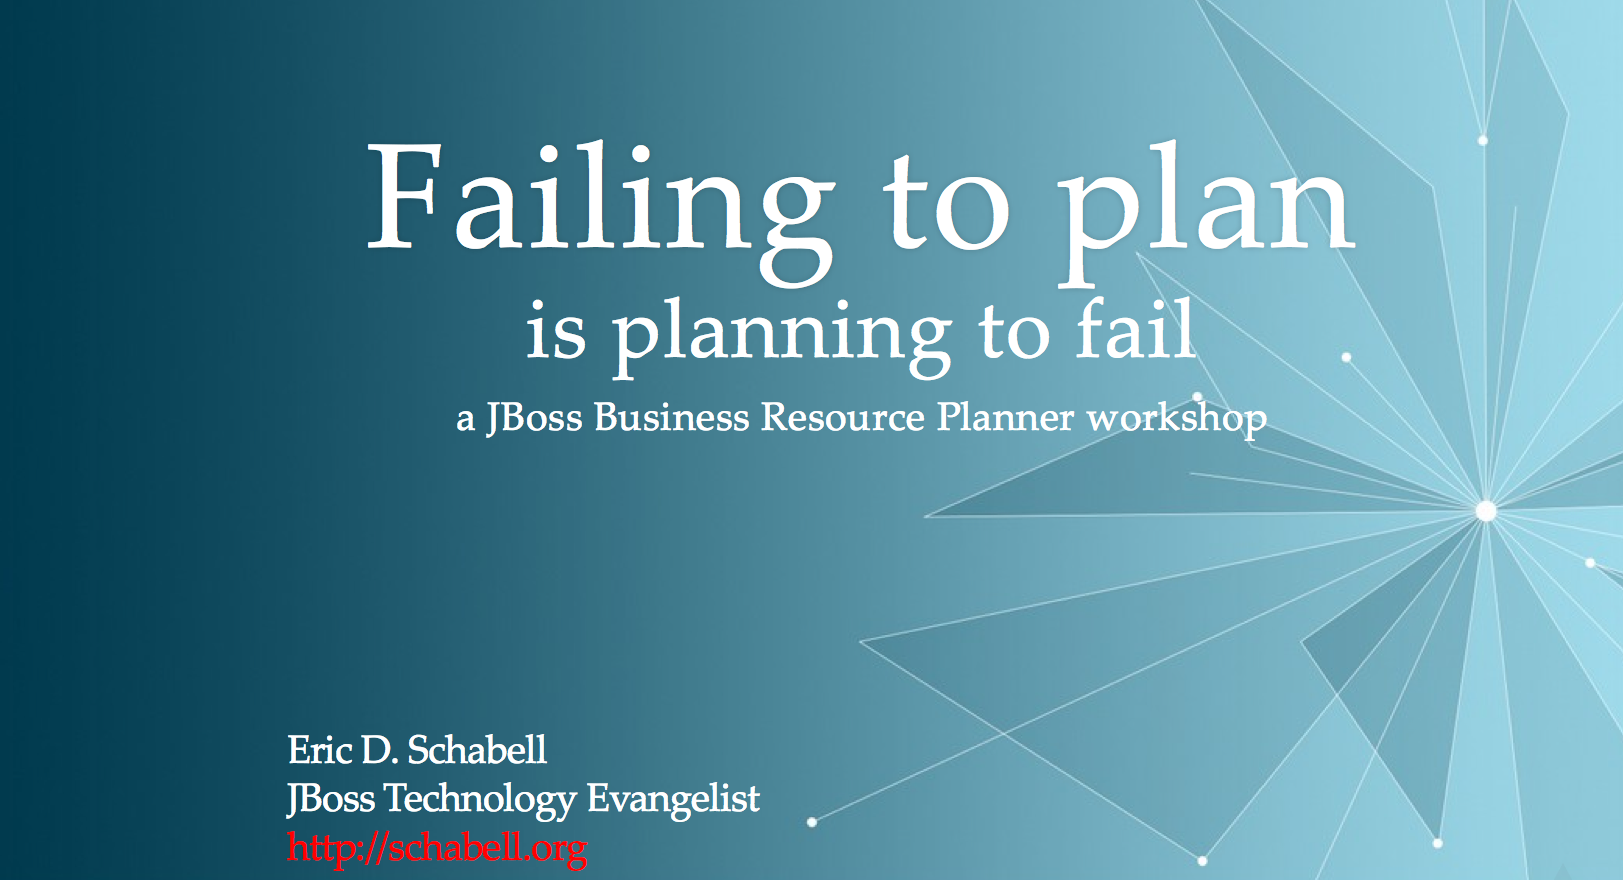
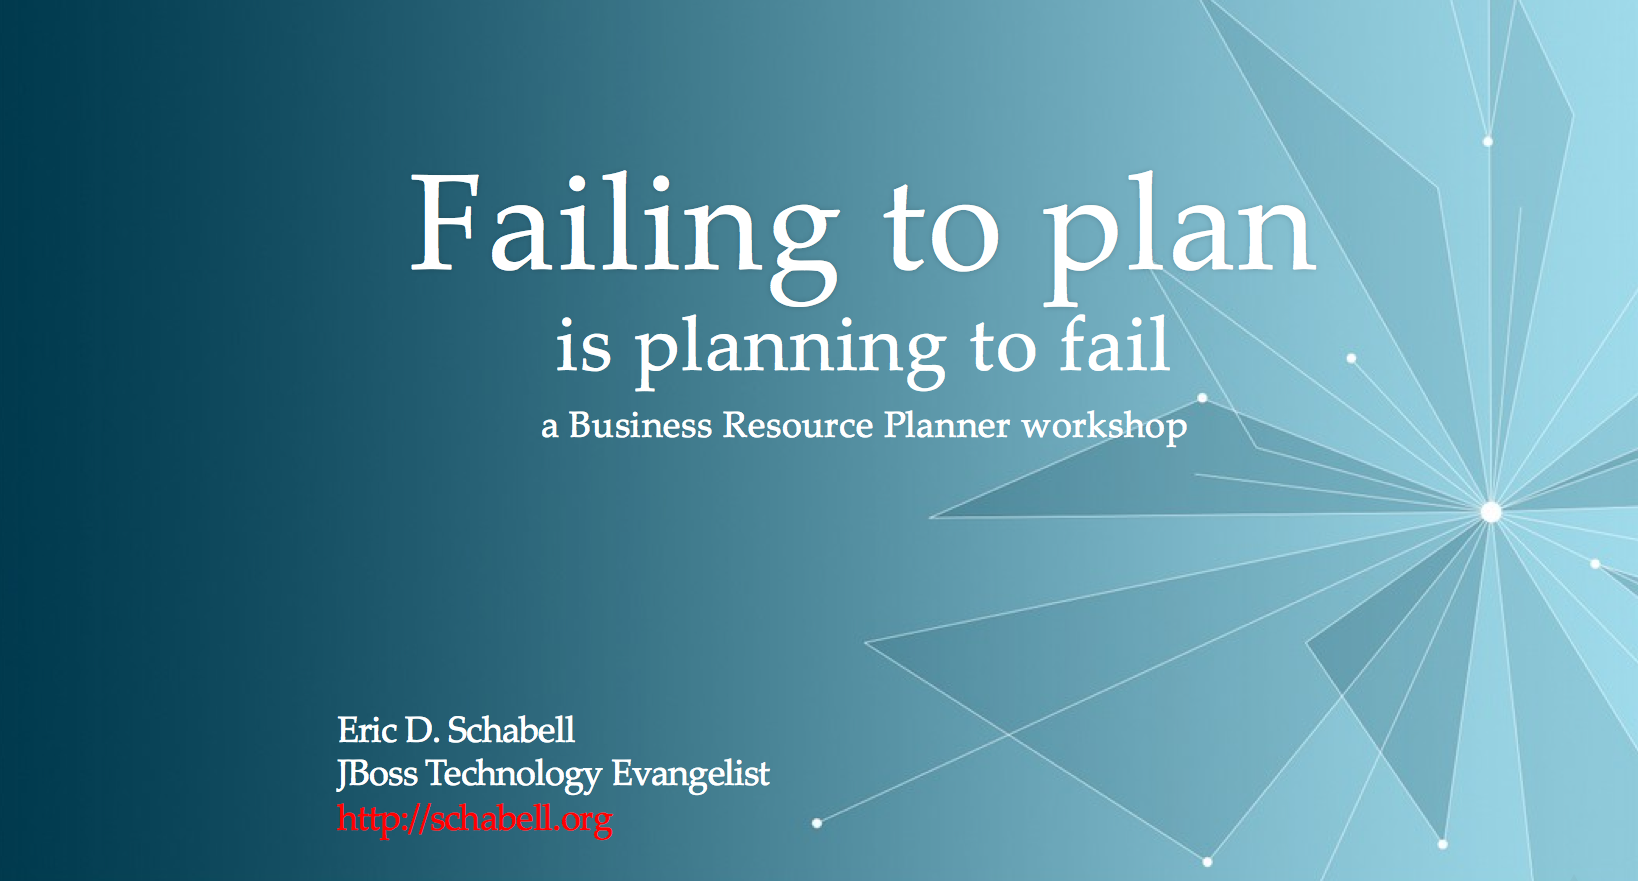
Fixed references.

diff --git a/introduction.html b/introduction.html
@@ -1,0 +1,254 @@
+<!doctype html>
+<html lang="en">
+
+<head>
+    <meta charset="utf-8">
+
+    <title>Red Hat JBoss BRMS & BPM Suite Introduction</title>
+
+    <meta name="description" content="JBoss BRMS & BPM Suite introduction.">
+    <meta name="author" content="Eric D. Schabell">
+
+    <meta name="apple-mobile-web-app-capable" content="yes" />
+    <meta name="apple-mobile-web-app-status-bar-style" content="black-translucent" />
+
+    <meta name="viewport" content="width=device-width, initial-scale=1.0, maximum-scale=1.0, user-scalable=no">
+
+    <link rel="stylesheet" href="css/reveal.min.css">
+    <link rel="stylesheet" href="css/theme/serif.css" id="theme">
+
+    <!-- For syntax highlighting -->
+    <link rel="stylesheet" href="lib/css/zenburn.css">
+
+    <!-- If the query includes 'print-pdf', include the PDF print sheet -->
+    <script>
+        if( window.location.search.match( /print-pdf/gi ) ) {
+            var link = document.createElement( 'link' );
+            link.rel = 'stylesheet';
+            link.type = 'text/css';
+            link.href = 'css/print/pdf.css';
+            document.getElementsByTagName( 'head' )[0].appendChild( link );
+        }
+    </script>
+
+    <!--[if lt IE 9]>
+    <script src="lib/js/html5shiv.js"></script>
+    <![endif]-->
+</head>
+
+<body>
+
+<div class="reveal">
+
+    <!-- Any section element inside of this container is displayed as a slide -->
+    <div class="slides">
+        <section>
+            <div style="width: 1056px; height: 300px; color: white">
+                <h2>Red Hat</h2>
+                <h2>JBoss BRMS & BPM Suite</h2>
+                <h3>Introduction</h3>
+            </div>
+            <div style="width: 600px; height: 600px; text-align: left">
+                Eric D. Schabell<br/>
+                JBoss Technology Evangelist<br/>
+                <a href="http://twitter.com/ericschabell" style="color: red" target="_blank">@ericschabell</a><br/>
+                <a href="http://schabell.org" style="color: red">http://schabell.org</a>
+            </div>
+            <aside class="notes">
+                Welcome to the JBoss BRMS & BPM Suite introduction. We call this the primer series, where we will
+                take you through the basics of Business Rules Management Systems, Complex Events and Business
+                Process Management.
+            </aside>
+        </section>
+
+        <section>
+            <img width="100%" height="100%" src="https://raw.githubusercontent.com/eschabell/erics-images/master/jteimages/image2.png">
+        </section>
+
+        <section data-background-color="white">
+            <img width="100%" height="100%" src="https://raw.githubusercontent.com/eschabell/erics-images/master/jteimages/image4.png">
+        </section>
+
+        <section data-background-color="white">
+            <img width="100%" height="100%" src="https://raw.githubusercontent.com/eschabell/erics-images/master/jteimages/image5.png">
+        </section>
+
+        <section data-background-color="white">
+            <img width="100%" height="100%" src="https://raw.githubusercontent.com/eschabell/erics-images/master/jteimages/image6.png">
+        </section>
+
+        <section data-background-color="white">
+            <img width="100%" height="100%" src="https://raw.githubusercontent.com/eschabell/erics-images/master/jteimages/image7.png">
+        </section>
+
+        <section data-background-color="white">
+            <img width="100%" height="100%" src="https://raw.githubusercontent.com/eschabell/erics-images/master/jteimages/image8.png">
+        </section>
+
+        <section data-background-color="white">
+            <img width="100%" height="100%" src="https://raw.githubusercontent.com/eschabell/erics-images/master/jteimages/image9.png">
+        </section>
+
+        <section data-background-color="white">
+            <img width="100%" height="100%" src="https://raw.githubusercontent.com/eschabell/erics-images/master/jteimages/image10.png">
+        </section>
+
+        <section>
+            <img width="100%" height="100%" src="https://raw.githubusercontent.com/eschabell/erics-images/master/jteimages/image11.png">
+        </section>
+
+        <section data-background-color="white">
+            <img width="100%" height="100%" src="https://raw.githubusercontent.com/eschabell/erics-images/master/jteimages/image12.png">
+        </section>
+
+        <section data-background-color="white">
+            <img width="100%" height="100%" src="https://raw.githubusercontent.com/eschabell/erics-images/master/jteimages/image13.png">
+        </section>
+
+        <section>
+            <img width="100%" height="100%" src="https://raw.githubusercontent.com/eschabell/erics-images/master/jteimages/image14.png">
+        </section>
+
+        <section data-background-color="white">
+            <img width="100%" height="100%" src="https://raw.githubusercontent.com/eschabell/erics-images/master/jteimages/image15.png">
+        </section>
+
+        <section data-background-color="white">
+            <img width="100%" height="100%" src="https://raw.githubusercontent.com/eschabell/erics-images/master/jteimages/image16.png">
+        </section>
+
+        <section data-background-color="white">
+            <img width="100%" height="100%" src="https://raw.githubusercontent.com/eschabell/erics-images/master/jteimages/image17.png">
+        </section>
+
+        <section data-background-color="white">
+            <img width="100%" height="100%" src="https://raw.githubusercontent.com/eschabell/erics-images/master/jteimages/image18.png">
+        </section>
+
+        <section data-background-color="white">
+            <img width="100%" height="100%" src="https://raw.githubusercontent.com/eschabell/erics-images/master/jteimages/image19.png">
+        </section>
+
+        <section data-background-color="white">
+            <img width="100%" height="100%" src="https://raw.githubusercontent.com/eschabell/erics-images/master/jteimages/image20.png">
+        </section>
+
+        <section data-background-color="white">
+            <img width="100%" height="100%" src="https://raw.githubusercontent.com/eschabell/erics-images/master/jteimages/image21.png">
+        </section>
+
+        <section data-background-color="white">
+            <img width="100%" height="100%" src="https://raw.githubusercontent.com/eschabell/erics-images/master/jteimages/image22.png">
+        </section>
+
+        <section data-background-color="white">
+            <img width="100%" height="100%" src="https://raw.githubusercontent.com/eschabell/erics-images/master/jteimages/image23.png">
+        </section>
+
+        <section data-background-color="white">
+            <img width="100%" height="100%" src="https://raw.githubusercontent.com/eschabell/erics-images/master/jteimages/image24.png">
+        </section>
+
+        <section data-background-color="white">
+            <img width="100%" height="100%" src="https://raw.githubusercontent.com/eschabell/erics-images/master/jteimages/image25.png">
+        </section>
+
+        <section data-background-color="white">
+            <img width="100%" height="100%" src="https://raw.githubusercontent.com/eschabell/erics-images/master/jteimages/image26.png">
+        </section>
+
+        <section data-background-color="white">
+            <img width="100%" height="100%" src="https://raw.githubusercontent.com/eschabell/erics-images/master/jteimages/image27.png">
+        </section>
+
+        <section data-background-color="white">
+            <img width="100%" height="100%" src="https://raw.githubusercontent.com/eschabell/erics-images/master/jteimages/image28.png">
+        </section>
+
+        <section>
+            <img width="100%" height="100%" src="https://raw.githubusercontent.com/eschabell/erics-images/master/jteimages/image29.png">
+        </section>
+
+        <section data-background-color="white">
+            <img width="100%" height="100%" src="https://raw.githubusercontent.com/eschabell/erics-images/master/jteimages/image30.png">
+        </section>
+
+        <section data-background-color="white">
+            <img src="https://raw.githubusercontent.com/eschabell/erics-images/master/brms_bpms_workshop/brms-arch.png">
+        </section>
+
+        <section data-background-color="white">
+            <img width="100%" height="100%" src="https://raw.githubusercontent.com/eschabell/erics-images/master/jteimages/image34.png">
+        </section>
+
+        <section data-background-color="white">
+            <img width="100%" height="100%" src="https://raw.githubusercontent.com/eschabell/erics-images/master/jteimages/image35.png">
+        </section>
+
+        <section data-background-color="white">
+            <img src="https://raw.githubusercontent.com/eschabell/erics-images/master/brms_bpms_workshop/bpmsuite-arch.png">
+        </section>
+
+        <section data-background-color="white">
+            <img width="100%" height="100%" src="https://raw.githubusercontent.com/eschabell/erics-images/master/jteimages/image37.png">
+        </section>
+
+        <section data-background-color="white">
+            <img width="100%" height="100%" src="https://raw.githubusercontent.com/eschabell/erics-images/master/jteimages/image38.png">
+        </section>
+
+        <section>
+            <img width="100%" height="100%" src="https://raw.githubusercontent.com/eschabell/erics-images/master/jteimages/image42.png">
+        </section>
+
+        <section>
+            <div style="width: 1056px; height: 100px;">
+                <h2>Let's get started...</h2>
+            </div>
+            <div style="width: 1056px; height: 200px;">
+                <h3>Online Workshop</h3>
+                This workshop will get you started with the <br />
+                Business Resource Planner component.
+            </div>
+            <div style="width: 1056px; height: 600px;">
+                <h3><a href="lab01.html" style="color: red" target="_blank">Business Resource Planner</a></h3>
+            </div>
+        </section>
+    </div>
+</div>
+
+<script src="lib/js/head.min.js"></script>
+<script src="js/reveal.min.js"></script>
+
+<script>
+
+    // Full list of configuration options available here:
+    // https://github.com/hakimel/reveal.js#configuration
+    Reveal.initialize({
+        controls: true,
+        progress: true,
+        history: true,
+        center: true,
+
+        theme: Reveal.getQueryHash().theme, // available themes are in /css/theme
+        transition: Reveal.getQueryHash().transition || 'default', // default/cube/page/concave/zoom/linear/fade/none
+
+        // Parallax scrolling
+        // parallaxBackgroundImage: 'https://s3.amazonaws.com/hakim-static/reveal-js/reveal-parallax-1.jpg',
+        // parallaxBackgroundSize: '2100px 900px',
+
+        // Optional libraries used to extend on reveal.js
+        dependencies: [
+            { src: 'lib/js/classList.js', condition: function() { return !document.body.classList; } },
+            { src: 'plugin/markdown/marked.js', condition: function() { return !!document.querySelector( '[data-markdown]' ); } },
+            { src: 'plugin/markdown/markdown.js', condition: function() { return !!document.querySelector( '[data-markdown]' ); } },
+            { src: 'plugin/highlight/highlight.js', async: true, callback: function() { hljs.initHighlightingOnLoad(); } },
+            { src: 'plugin/zoom-js/zoom.js', async: true, condition: function() { return !!document.body.classList; } },
+            { src: 'plugin/notes/notes.js', async: true, condition: function() { return !!document.body.classList; } }
+        ]
+    });
+
+</script>
+
+</body>
+</html>
